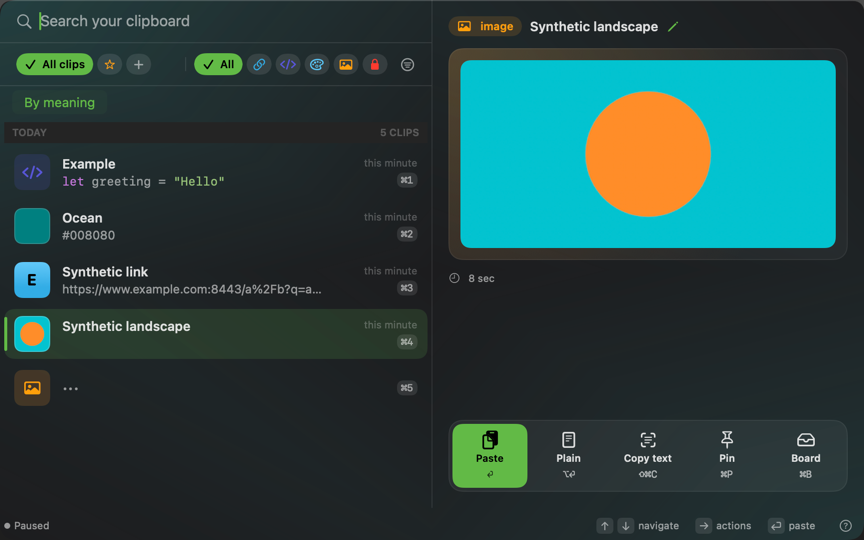
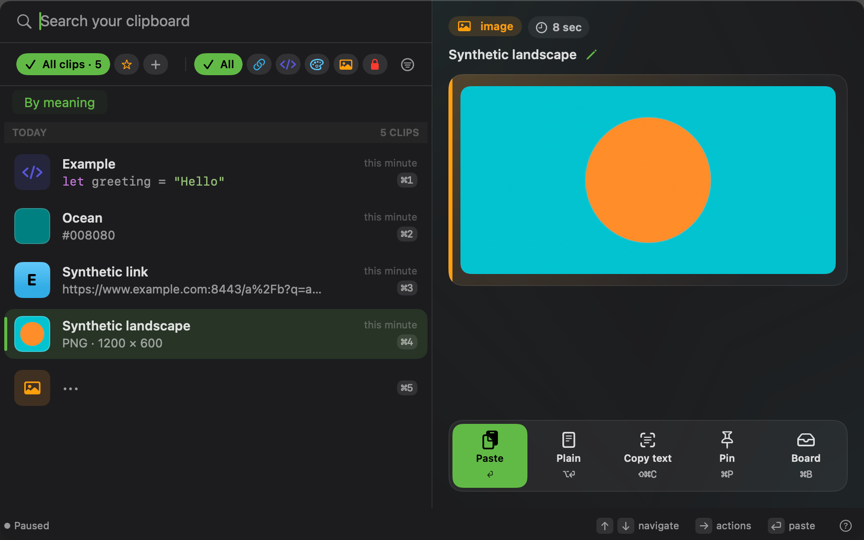
fix(panel): skip the sync lookup for masked clips; site screens show the v4 peek (GC-01)
- A masked clip or Private Mode never renders the sync chip, so the peek no
  longer runs the upload-state query for it (privacy review note).
- PanelProvenanceUITests reads the decoded link line from its value when the
  label is empty: selectable text reports its string as the value on macOS,
  as PeekDockUITests already does for the URL line.
- README and website panel screens re-rendered in-app (sRGB) with the
  provenance header, scope count and image-row line.

diff --git a/Tests/GanchoUITests/PanelProvenanceUITests.swift b/Tests/GanchoUITests/PanelProvenanceUITests.swift
@@ -41,9 +41,11 @@ final class PanelProvenanceUITests: XCTestCase {
         // Sync is off in UI tests, so the chip says nothing rather than guess.
         XCTAssertFalse(header.descendants(matching: .any)["peek-sync-state"].firstMatch.exists)
         XCTAssertTrue(app.staticTexts["preview-title"].firstMatch.exists)
-        let decoded = app.descendants(matching: .any)["peek-link-decoded"].firstMatch
+        let decoded = app.staticTexts["peek-link-decoded"].firstMatch
         XCTAssertTrue(decoded.exists)
-        XCTAssertTrue(decoded.label.contains("/a/b?q=a&b"), decoded.label)
+        // Selectable text reports its string as the value on macOS.
+        let reading = decoded.label.isEmpty ? decoded.value as? String ?? "" : decoded.label
+        XCTAssertTrue(reading.contains("/a/b?q=a&b"), reading)
     }
 
     @MainActor

diff --git a/Apps/GanchoMac/ClipPeek.swift b/Apps/GanchoMac/ClipPeek.swift
@@ -284,7 +284,9 @@ struct ClipPeek: View {
         }
         .task(id: item.id) { await loadSuggestedBoard() }
         .task(id: PeekSyncStateKey(id: item.id, status: model.syncStatus)) {
-            let state = await model.uploadState(for: item)
+            // A masked clip never shows the chip, so it is not looked up.
+            var state: PeekSyncState?
+            if !hidesPreview { state = await model.uploadState(for: item) }
             guard !Task.isCancelled else { return }
             syncState = state
         }
